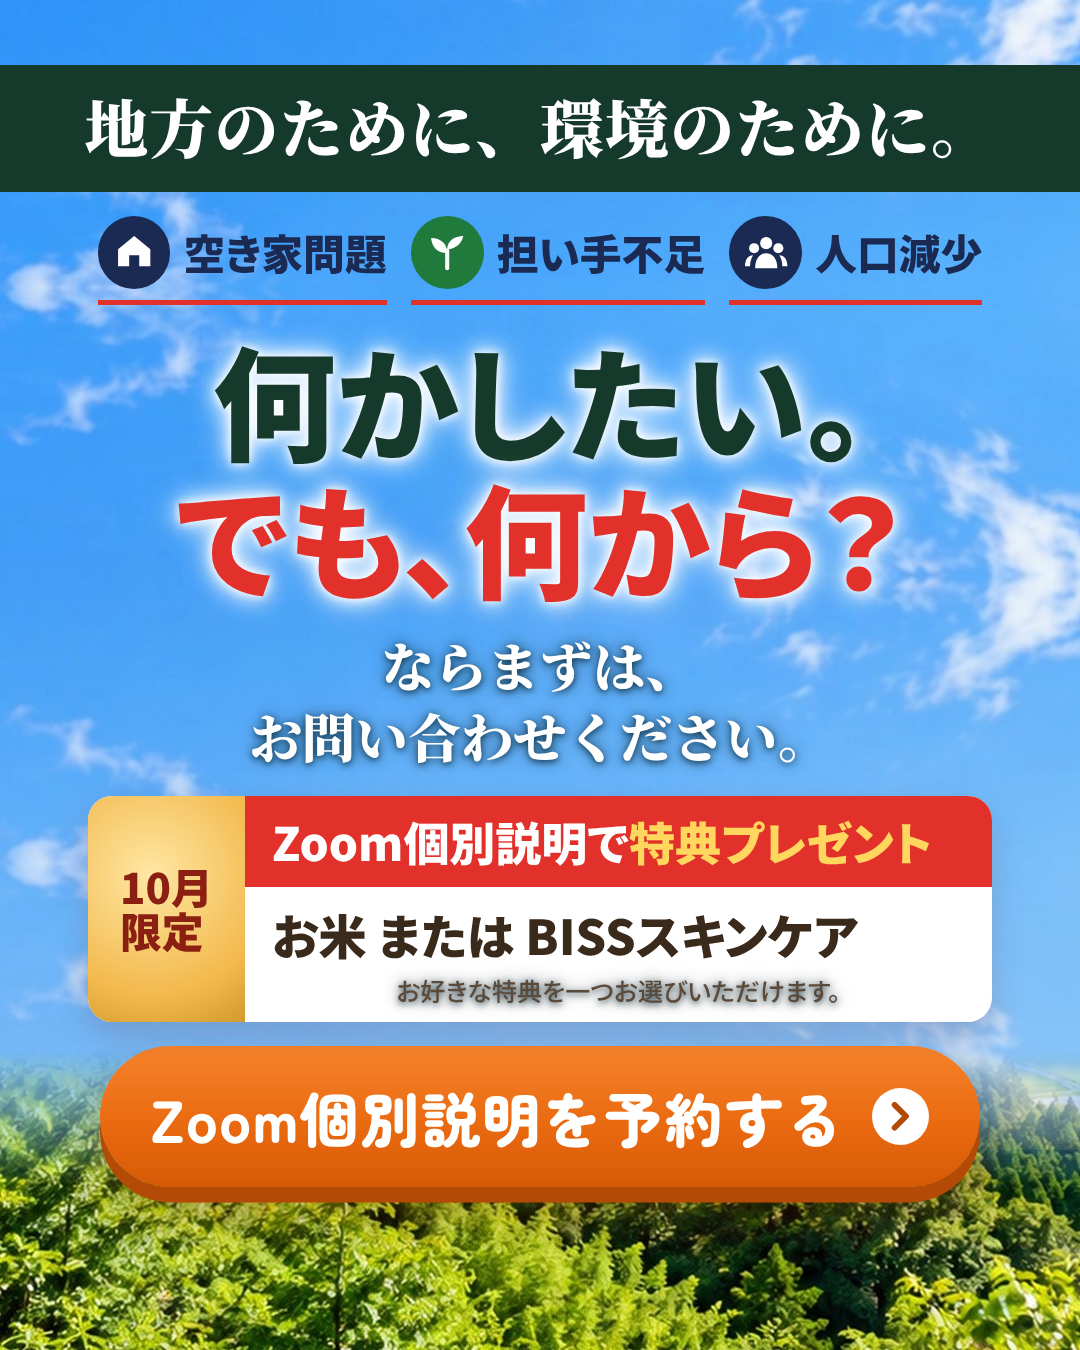
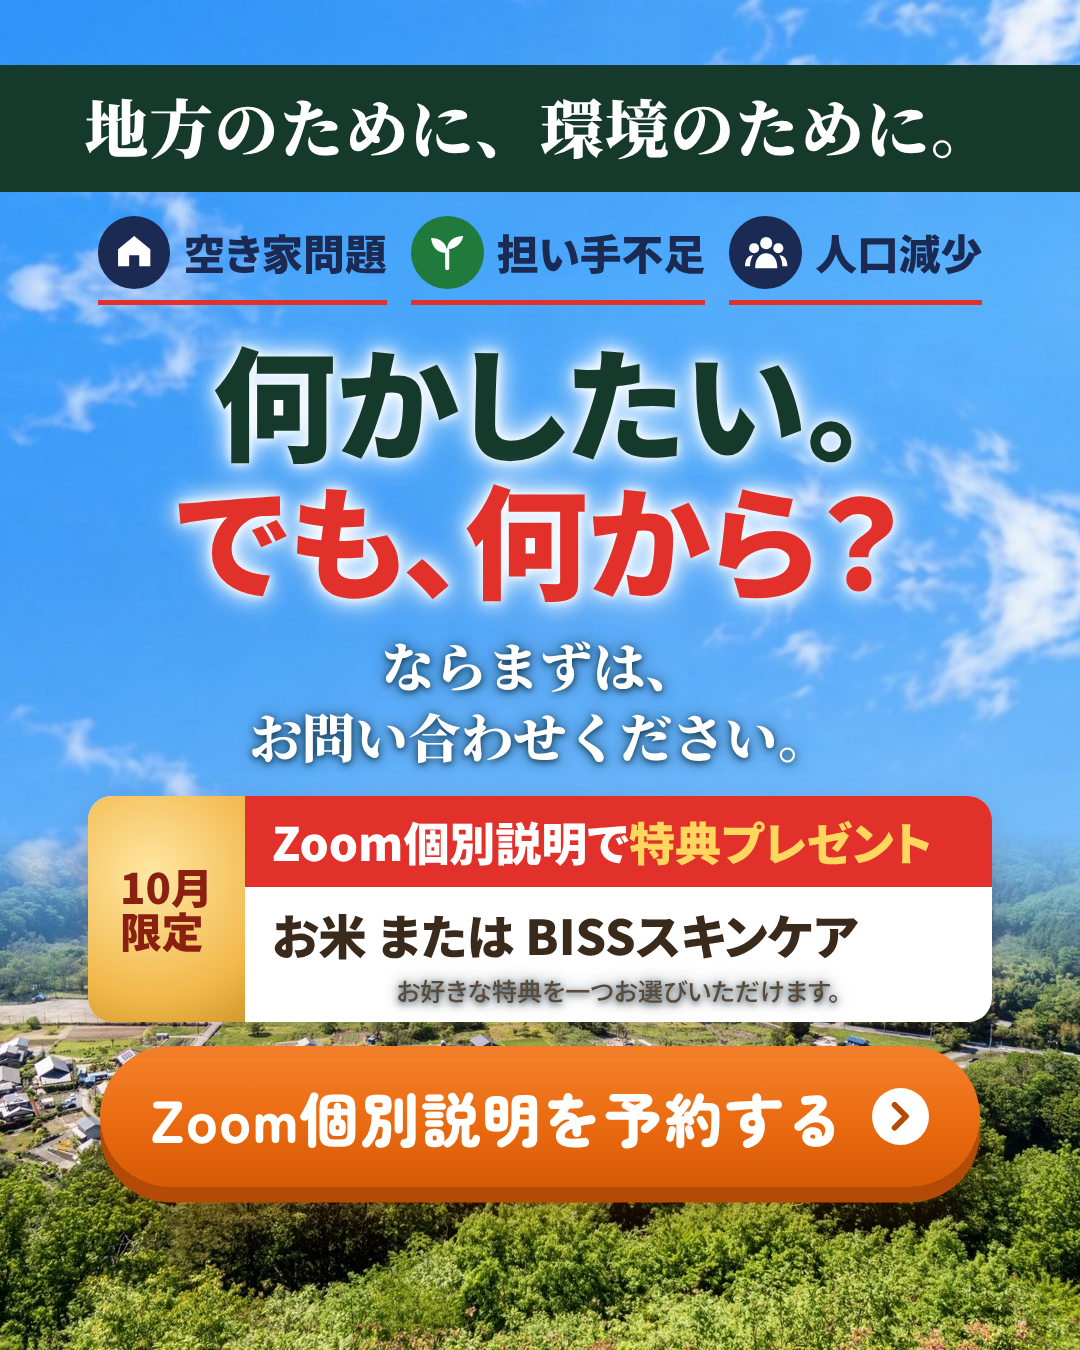
feat: 背景に実写の集落写真を使用（静止画12枚を更新）
Claude-Session: https://claude.ai/code/session_01P3SyrgKkzVaKXZHt8wAsTA

Changed region(s): [[0.0, 0.6222, 1.0, 1.0]]

diff --git a/ads/blueberry-reel/template/ad.css b/ads/blueberry-reel/template/ad.css
@@ -2,7 +2,7 @@
   :root { --dg: #15392b; --navy: #1b2a52; }
   #stage { position: absolute; left: 0; top: 0; overflow: hidden; background: #6fb4ea; }
   #sky { position: absolute; left: 0; top: 0; width: 1080px; background: url(../assets/bg-sky.jpg) center top / cover; }
-  #forest { position: absolute; left: 0; bottom: 0; width: 1080px; background: url(../assets/bg-forest.jpg) center bottom / cover; -webkit-mask-image: linear-gradient(to bottom, transparent 0%, #000 45%); mask-image: linear-gradient(to bottom, transparent 0%, #000 45%); }
+  #forest { position: absolute; left: 0; bottom: 0; width: 1080px; background: url(../assets/bg-village.jpg) center bottom / cover; -webkit-mask-image: linear-gradient(to bottom, transparent 0%, #000 38%); mask-image: linear-gradient(to bottom, transparent 0%, #000 38%); }
   #fade { position: absolute; left: 0; width: 1080px; background: linear-gradient(180deg, rgba(196,224,246,0), rgba(120,170,110,0.55)); }
   #content, .acontent { position: absolute; left: 0; display: flex; flex-direction: column; align-items: center; gap: 22px; }
   .band { width: 100%; background: var(--dg); color: #fff; text-align: center; font-family: 'Noto Serif JP', serif; font-weight: 900; font-size: 74px; line-height: 1.3; padding: 18px 0 22px; white-space: nowrap; }

diff --git a/ads/blueberry-reel/template/ad.js b/ads/blueberry-reel/template/ad.js
@@ -133,7 +133,7 @@
     const stage = document.getElementById('stage');
     stage.style.width = `${F.W}px`; stage.style.height = `${F.H}px`;
     document.getElementById('sky').style.height = `${F.H - 200}px`;
-    document.getElementById('forest').style.height = `${format === 'story' ? 420 : 300}px`;
+    document.getElementById('forest').style.height = `${format === 'story' ? 860 : format === 'feed' ? 520 : 400}px`;
     L.injectDefs();
     const content = document.getElementById('content');
     build(content, cfg, format);

diff --git a/ads/blueberry-reel/template/adreel.js b/ads/blueberry-reel/template/adreel.js
@@ -18,7 +18,7 @@
     if (hit.length) throw new Error(`使用禁止語を含んでいます: ${hit.join('、')}`);
     L.injectDefs();
     document.getElementById('sky').style.height = '1720px';
-    document.getElementById('forest').style.height = '420px';
+    document.getElementById('forest').style.height = '860px';
     if (opts.guides) document.getElementById('guides').classList.add('on');
     const root = document.getElementById('scenes');
     const scenes = cfg.scenes.map((s, i) => {
